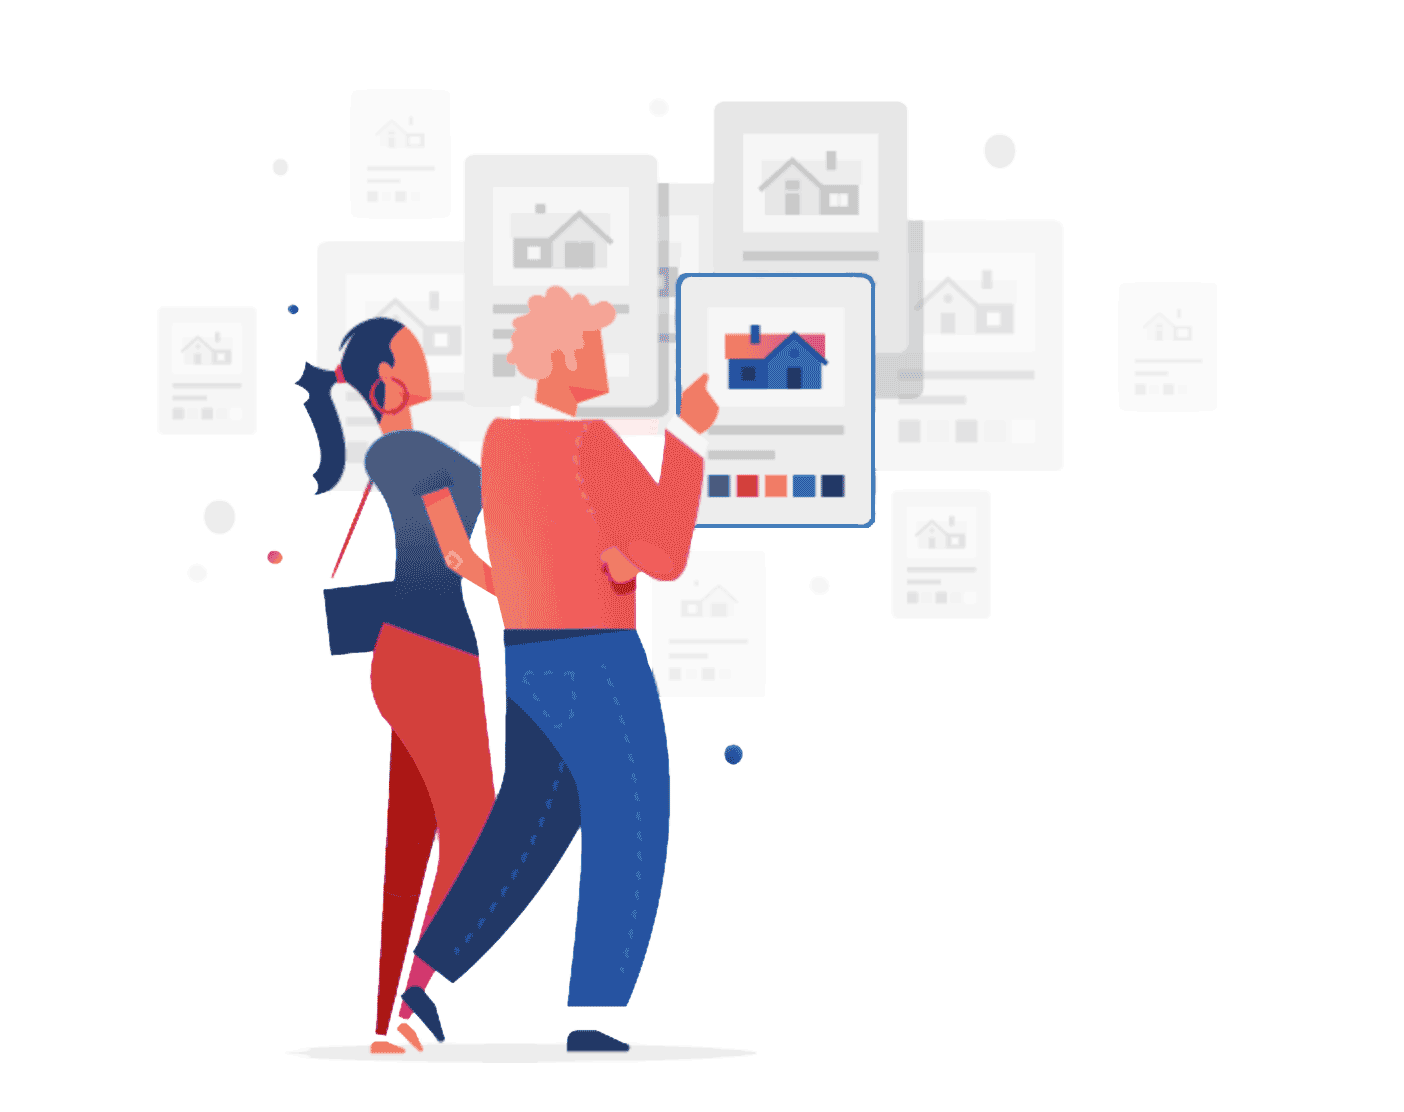
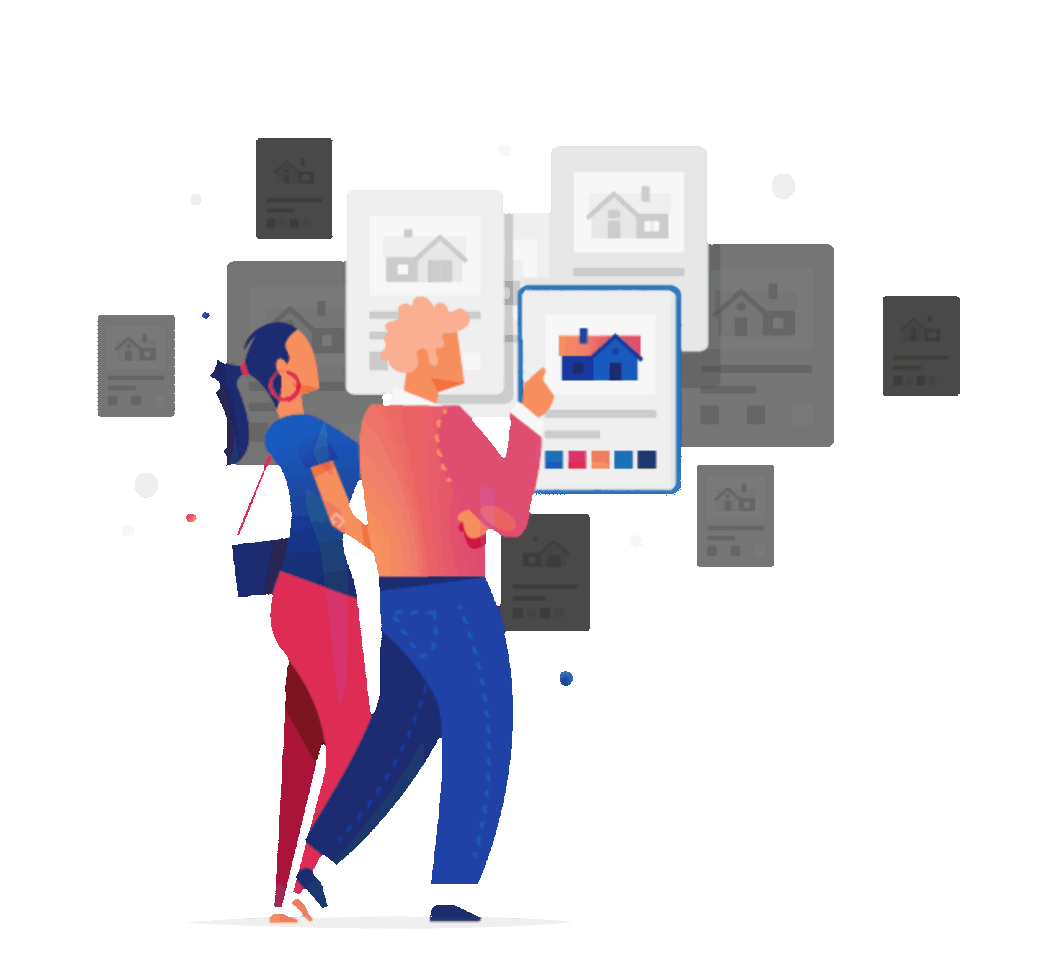
MAJ

Changed region(s): [[0.0934, 0.1232, 0.9028, 0.9548]]

diff --git a/src/app/home/home.component.html b/src/app/home/home.component.html
@@ -8,6 +8,8 @@
                 <h1>L'immobilier selon vous</h1>
                 <p>Vous avez trouvé vos agents immobiliers de confiance, en Brabants et à Bruxelles !</p>
                 <button type="button" class="btn btn-outline-danger">Découvrez notre méthode</button>
+                <button type="button" class="btn btn-outline-safe">Vendre/Louer</button>
+
             </div>
 
             <!--formulaire de recherche-->
@@ -18,7 +20,7 @@
                     </div>
                     <div class="search-form col-8 ml-auto pb-3">
                         <div class="row">
-                            <div class="text-search-form col-12 text-center">Je souhaite</div>
+                            <div class="text-search-form col-12 text-left">Je souhaite</div>
                             <button type="button" class="btn btn-outline-primary offset-3 col-3 ml-auto rounded-pill"
                                 aria-pressed="true">Acheter</button>
                             <button type="button"
@@ -26,7 +28,7 @@
                         </div>
                         <div class="row">
                             <form class="form-inline col-12">
-                                <label class="text-search-form col-12 text-center" for="inlineFormCustomSelectPref">Type
+                                <label class="text-search-form col-12 text-left" for="inlineFormCustomSelectPref">Type
                                     de bien</label>
                                 <select class="custom-select mx-auto rounded-pill col-7"
                                     id="inlineFormCustomSelectPref">
@@ -41,7 +43,7 @@
                         </div>
                         <div class="row">
                             <form class="form-inline col-12">
-                                <label class="text-search-form col-12 text-center"
+                                <label class="text-search-form col-12 text-left"
                                     for="inlineFormCustomSelectPref">Localité</label>
                                 <select class="custom-select mx-auto rounded-pill col-7"
                                     id="inlineFormCustomSelectPref">
@@ -56,7 +58,7 @@
                         </div>
                         <div class="row">
                             <form class="form-inline col-12">
-                                <label class="text-search-form col-12 text-center"
+                                <label class="text-search-form col-12 text-sm-left"
                                     for="inlineFormCustomSelectPref">Nombre de chambres</label>
                                 <select class="custom-select mx-auto rounded-pill col-3"
                                     id="inlineFormCustomSelectPref">

diff --git a/src/app/home/home.component.css b/src/app/home/home.component.css
@@ -2,13 +2,17 @@
 
 /* Header */
 .header{
-    background-image: url('/assets/img/home_test.jpg');
-    background-size: 100%;
+    background-image: url('/assets/img/choice_home.png');
+    background-size: 25%;
+    background-color: #233353;
     background-repeat: no-repeat;
-    background-position: center;
-    padding-top: 30px;
+    background-position: right 39% bottom 45%;
 
 }
+
+
+
+
 
 .header h1{
     font-size: 75px;
@@ -22,23 +26,59 @@
     font-weight: lighter;
     color: #ffff;
     font-family: 'Source Sans Pro', sans-serif;
+    margin-top: 10px;
 }
 
 .header .btn-outline-danger{
     font-size: 1.1em;
-    color: #EE5C5A;
+    background-color: #EE5C5A;
+    color: #233353;
+    border-radius: 20px;
+    padding-top: 10px;
+    padding-bottom: 10px;
+    padding-left: 15px;
+    padding-right: 15px;
+    margin-top: 20px;
+    font-family: 'Montserrat', sans-serif;
 }
+
 
 .header .btn-outline-danger:hover{
     font-size: 1.1em;
     color: white;
-    background-color: #EE5C5A;
 }
+
+.btn-outline-safe {
+  font-size: 1.1em;
+  background-color: #233353;
+  color: white;
+  border-color: #EE5C5A;
+  border-radius: 20px;
+  padding-top: 10px;
+  padding-bottom: 10px;
+  padding-left: 15px;
+  padding-right: 15px;
+  margin-top: 20px;
+  font-family: 'Montserrat', sans-serif;
+  margin-left: 22px;
+}
+
+
+.btn-outline-safe:hover{
+    font-size: 1.1em;
+    color: #EE5C5e;
+    border-color: white;
+}
+
 
 
 /* Search-form */
 .search-form{
-    background: rgba(35, 51, 83, 0.6)
+    background: #f5f5f5;
+    border-radius: 20px;
+    border: black;
+     box-shadow: 5px 7px 7px #121932;
+     opacity: 95%;
 }
 
 .search-form p{
@@ -48,7 +88,8 @@
 
 h2{
     color: #ffff;
-    font-size: 1.3em
+    font-size: 1.2em;
+    font-family: 'Montserrat', sans-serif;
 }
 
 .search-form h2{
@@ -57,14 +98,19 @@ h2{
 }
 
 .text-search-form{
-    font-size: 2em;
+    font-size: 1em;
+    margin:8px;
     color: #EE5C5A;
+    font-family: 'Montserrat', sans-serif;
 }
 
 .btn-outline-primary{
     color:#233353;
-    background-color: white;
+    background-color: #e8e9ea;
     border-color: #233353;
+    padding: 10px;
+    padding-right: 20px;
+    padding-left: 20px;
 }
 
 .btn-outline-primary:hover{
@@ -77,7 +123,12 @@ h2{
     color: white !important ;
     background-color: #EE5C5A !important;
     border-color: #EE5C5A !important;
+
+
 }
+
+
+
 
 /* Nos biens immobiliers */
 .nos-biens h2{
